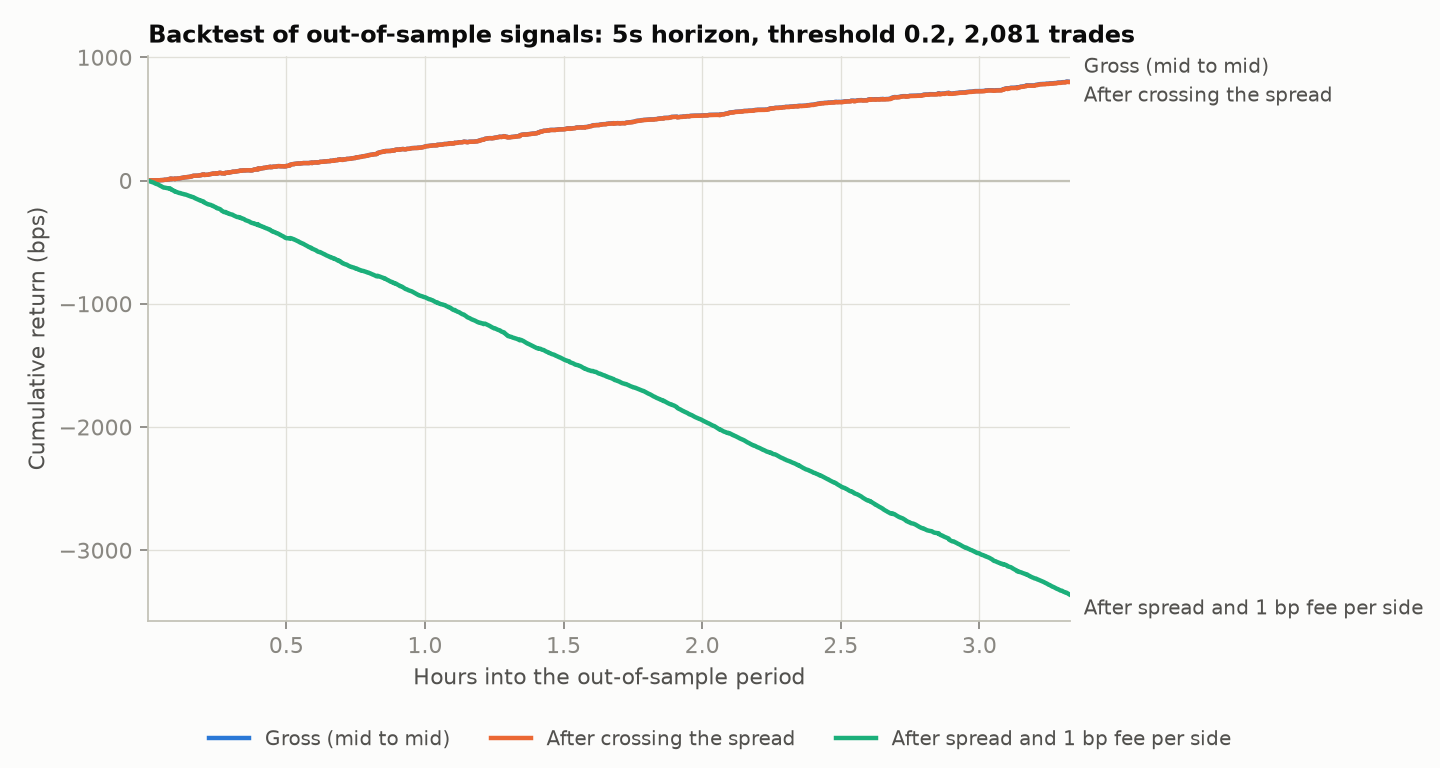
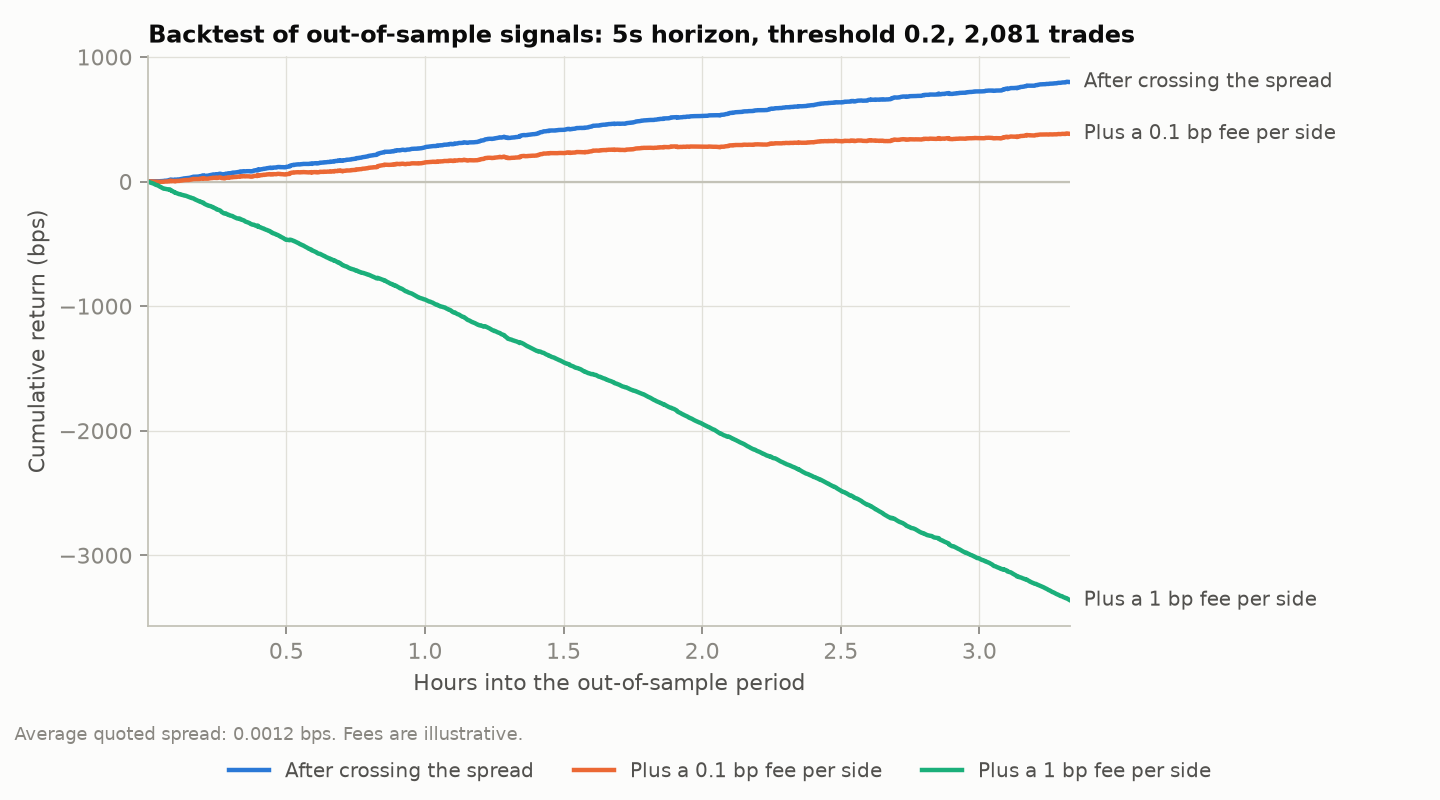
Regenerate report with updated backtest chart

diff --git a/reports/REPORT.md b/reports/REPORT.md
@@ -1,6 +1,6 @@
 # Results
 
-_Generated 2026-10-14 03:48 UTC by `python -m lobpred.report`._
+_Generated 2026-10-14 04:12 UTC by `python -m lobpred.report`._
 
 ## Data
 
@@ -12,8 +12,8 @@ _Generated 2026-10-14 03:48 UTC by `python -m lobpred.report`._
 | Book updates per second | 9.97 |
 | Price-level changes per second | 257.3 |
 | Trades | 100,197 |
-| Book update latency (p50 / p99) | 26.5 / 421.4 µs |
-| Feature computation latency (p50 / p99) | 81.4 / 132.7 µs |
+| Book update latency (p50 / p99) | 16.2 / 293.8 µs |
+| Feature computation latency (p50 / p99) | 44.8 / 77.0 µs |
 
 ## Predictive performance
 
@@ -23,7 +23,7 @@ _Generated 2026-10-14 03:48 UTC by `python -m lobpred.report`._
 |---|---|---|---|---|---|---|
 | 1s | Majority class | 0.822 ± 0.024 | 0.333 ± 0.000 | 0.301 ± 0.005 | 0.607 ± 0.064 | 0.000 ± 0.000 |
 | 1s | OFI only (logistic) | 0.819 ± 0.024 | 0.351 ± 0.007 | 0.338 ± 0.016 | 0.562 ± 0.056 | 0.291 ± 0.034 |
-| 1s | Logistic (all features) | 0.821 ± 0.023 | 0.342 ± 0.005 | 0.320 ± 0.011 | 0.490 ± 0.050 | 0.433 ± 0.021 |
+| 1s | Logistic (all features) | 0.821 ± 0.023 | 0.342 ± 0.005 | 0.320 ± 0.012 | 0.490 ± 0.050 | 0.433 ± 0.021 |
 | 1s | XGBoost | 0.825 ± 0.025 | 0.410 ± 0.014 | 0.436 ± 0.020 | 0.492 ± 0.057 | 0.429 ± 0.027 |
 | 2s | Majority class | 0.702 ± 0.036 | 0.333 ± 0.000 | 0.275 ± 0.009 | 0.838 ± 0.076 | 0.000 ± 0.000 |
 | 2s | OFI only (logistic) | 0.705 ± 0.036 | 0.360 ± 0.008 | 0.333 ± 0.020 | 0.784 ± 0.068 | 0.304 ± 0.034 |
@@ -39,7 +39,7 @@ _Generated 2026-10-14 03:48 UTC by `python -m lobpred.report`._
 | 10s | XGBoost | 0.485 ± 0.044 | 0.474 ± 0.041 | 0.466 ± 0.041 | 1.073 ± 0.102 | 0.378 ± 0.086 |
 | 30s | Majority class | 0.487 ± 0.035 | 0.333 ± 0.000 | 0.218 ± 0.011 | 0.911 ± 0.051 | 0.000 ± 0.000 |
 | 30s | OFI only (logistic) | 0.509 ± 0.025 | 0.353 ± 0.003 | 0.304 ± 0.014 | 0.903 ± 0.051 | 0.133 ± 0.020 |
-| 30s | Logistic (all features) | 0.583 ± 0.027 | 0.423 ± 0.016 | 0.415 ± 0.019 | 0.876 ± 0.036 | 0.251 ± 0.040 |
+| 30s | Logistic (all features) | 0.583 ± 0.027 | 0.423 ± 0.016 | 0.416 ± 0.019 | 0.876 ± 0.036 | 0.251 ± 0.040 |
 | 30s | XGBoost | 0.537 ± 0.025 | 0.394 ± 0.007 | 0.385 ± 0.007 | 0.918 ± 0.053 | 0.190 ± 0.045 |
 
 ![Predictability by horizon](predictability_by_horizon.png)
